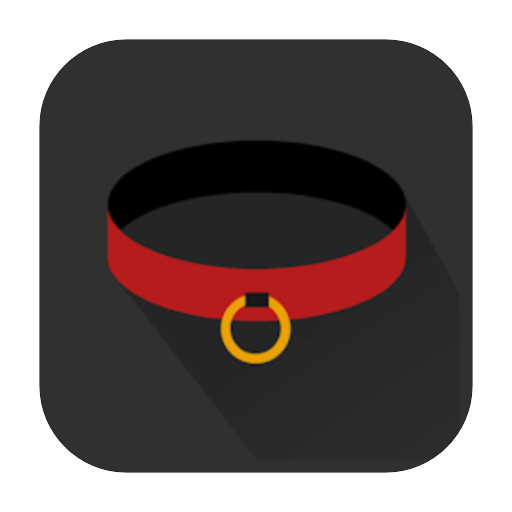
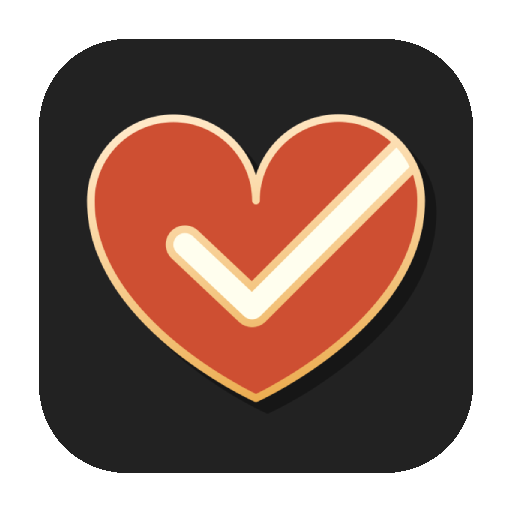
update assets

Changed region(s): [[0.1562, 0.2188, 0.875, 0.7812]]

diff --git a/index.html b/index.html
@@ -43,7 +43,7 @@
         </svg>
         <span id="token-count">0</span>
       </div>
-      <img src="/manu.webp" />
+      <img src="/manu.jpeg" />
       <div>
         <svg viewBox="0 0 24 24">
           <path